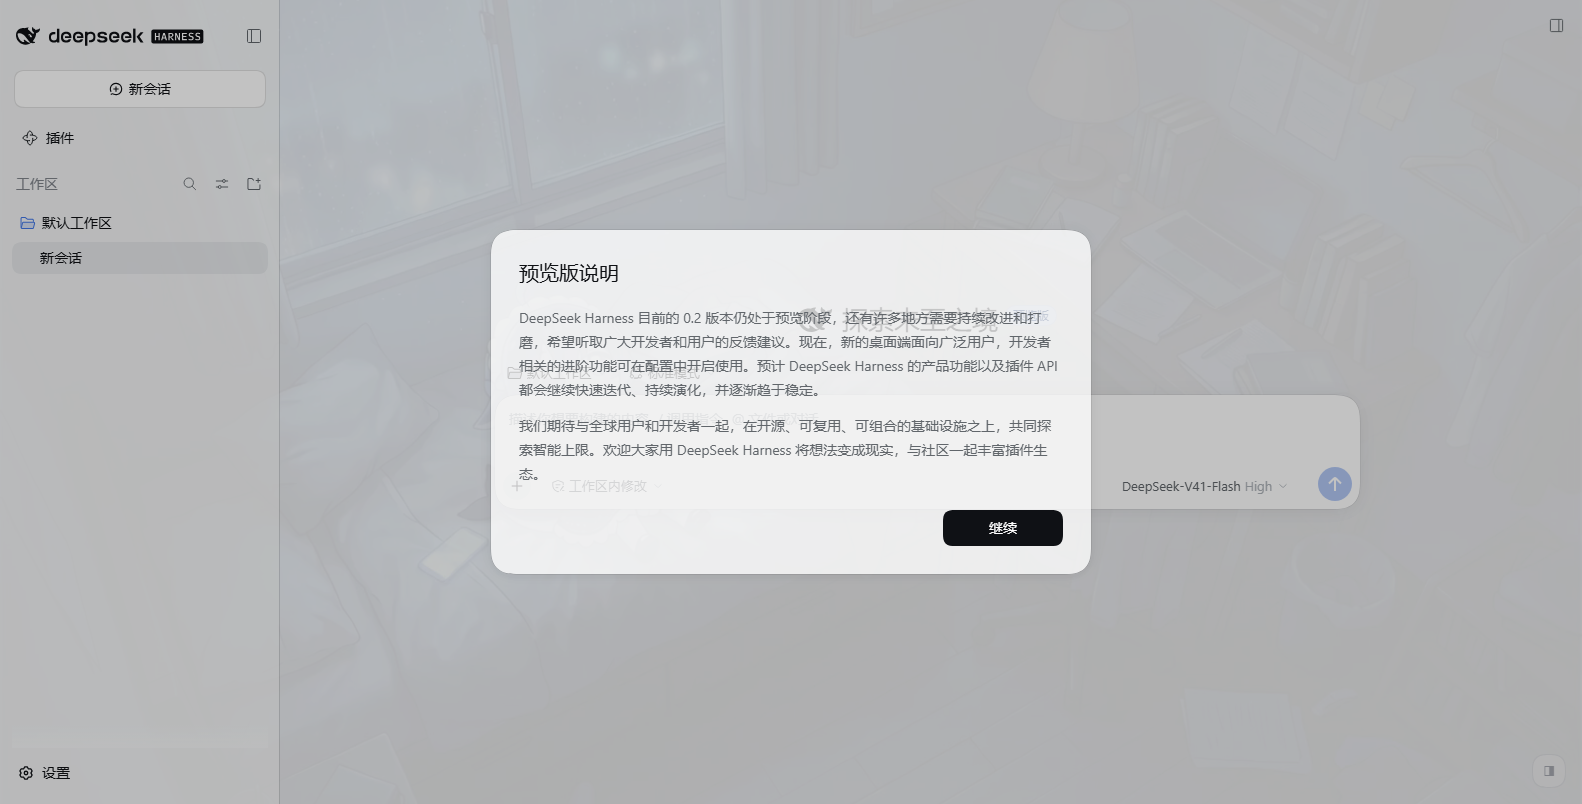
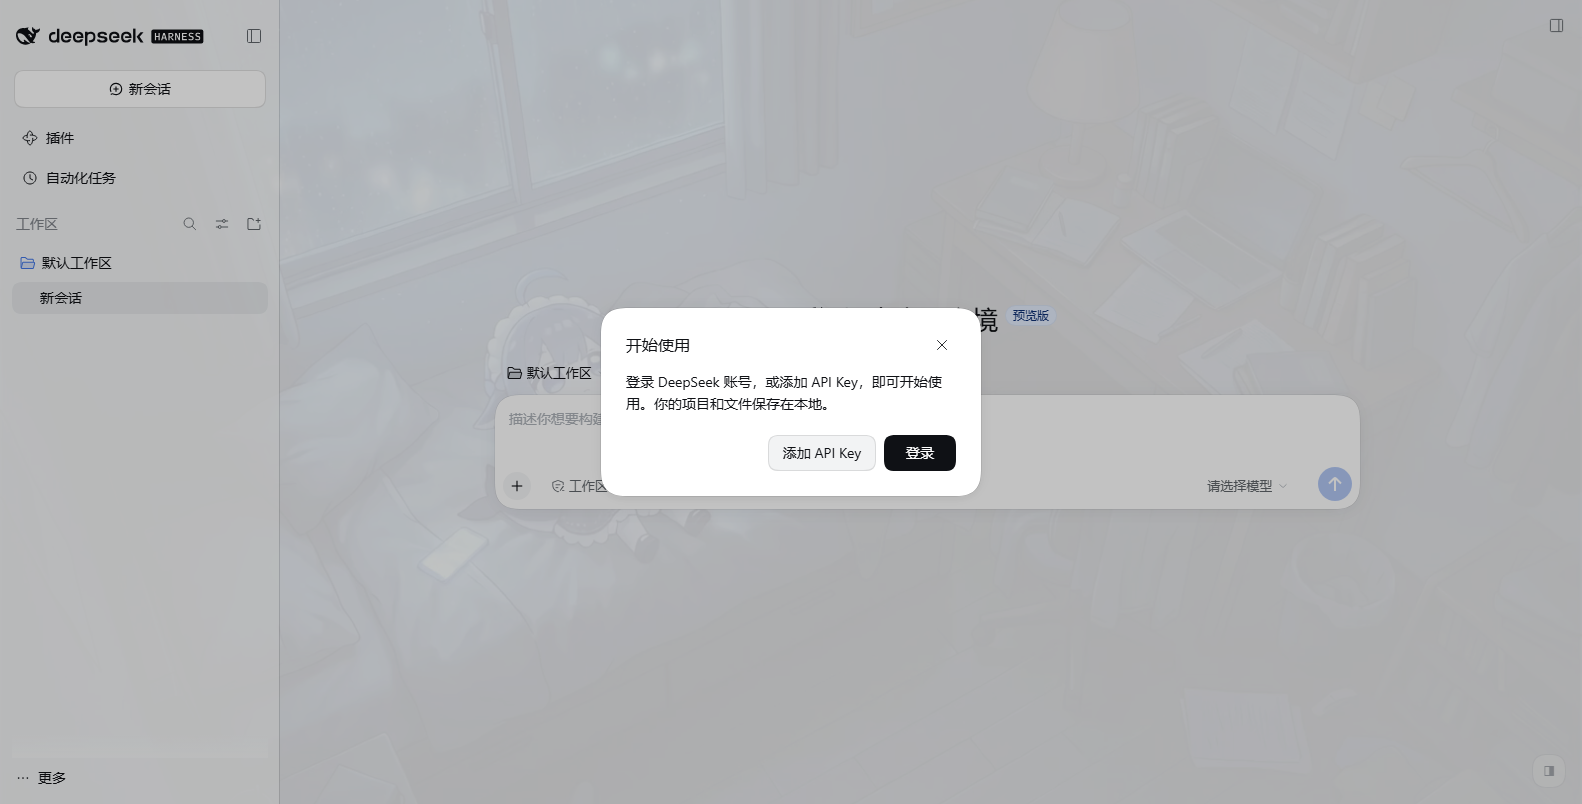
修复"打开设置/其他界面看不清"：弹层表面不再跟着透明度滑块走
根因：插件把 `--dsw-alias-bg-layer-1/2/3` 也按 `surface + 0.1/0.16/0.2` 派生了，
而内核里模态/面板就是用这几层画背景的：

    _dialog_o6lrb_33 { background: var(--dsw-alias-bg-layer-2) }   /* 模态 / 设置页 */
    _mask_o6lrb_18::after { background: var(--dsw-alias-bg-mask-1) }

暗主题 layer-2 只有 0.36 alpha，所以设置页变成一张玻璃纸：背后正在滚动的正文直接
透进对话框，两段文字叠在一起谁都读不了（用户报的正是这个）。

修法：划清"画布"和"抬起来的表面"的界线
- 半透明只保留给画布与侧栏：`--dsw-alias-bg-base` + `--dsw-specific-sidebar-fill`
- `layer-1/2/3` **完全不覆盖**，保持内核原生不透明色 —— 对话框/弹层/菜单/卡片/设置页都实心
- skin.js 里 `setLayer()` → `setSurface()`，不再派生 layer1/2/3

可读性代价与收益：卡片和弹层变成实心（读内容优先），视频仍在画布与侧栏后面清晰可见。

验证
- 真 Chromium 76/76（新增 B22：对话框 layer-2 在亮/暗两个主题下 alpha 都必须 = 1；
  B9/B16/B20 改成断言 layer token 保持不透明）
- 单元测试 81/81（新增：`--dsvs-layer1/2/3` 不该由插件派生）
- 实测截图存进 docs：e2e-5-settings-light.png / e2e-6-settings-dark.png
- 顺手修好仓库元数据：.git 之前只剩 objects/ 和 refs/（无 HEAD/config/index），
  就地重建后历史完好（HEAD = f5b69ee），备份在 %TEMP%\dsh-video-skin-git-backup-*
- 版本 0.1.1 → 0.1.2；滑块文案"面板不透明度" → "画布不透明度"（名副其实）

Changed region(s): [[0.3097, 0.2799, 0.8053, 0.7152], [0.0, 0.2177, 0.0619, 0.2799], [0.0, 0.3109, 0.0619, 0.3731]]

diff --git a/runtime/skin.css b/runtime/skin.css
@@ -270,28 +270,29 @@ body[data-ds-dark-theme] #dsvs-backdrop-veil {
   background: rgba(0, 0, 0, var(--dsvs-veil, 0.14));
 }
 
-/* 表面半透明化。
+/* 表面半透明化 —— **只动"画布"和"侧栏"，不动"浮起来的表面"**。
  *
- * **暗色和亮色的表面值刻意不同**：文字在暗主题是浅色、在亮主题是深色，而这条素材整体偏暗
- * （实测 YAVG≈0.25），所以同样薄的白色表面会让深色文字掉到 3:1 以下，而深色表面不会。
- * 两边都用一个值的结果就是"亮主题没法读"。实测数据见 README §3。
+ * 分成两类是有原因的（这是用户报障之后才分清的一条界线）：
+ *
+ *   ① 画布 / 侧栏（bg-base、sidebar-fill）：视频就在它们后面，半透明才能看见画面。
+ *   ② 抬起来的表面（bg-layer-1/2/3）：对话框、弹层、菜单、卡片、设置页。
+ *      **它们必须保持内核原生的不透明色**，否则背后正在滚动/闪动的正文会透进对话框里，
+ *      两段文字叠在一起就没法读了。设置页和「预览版说明」模态用的都是
+ *      `_dialog_*{ background: var(--dsw-alias-bg-layer-2) }`，同一个 token。
+ *
+ * 早先的实现把 ①②一起半透明化（layer2 = surface+0.16，暗主题只有 0.36），于是
+ * 一调低"面板不透明度"，设置页就变成一张玻璃纸。现在 ② 不再跟着滑块走。
  *
  * 每一层的不透明度都是 JS 先算好再写成独立变量，不在 `rgba()` 里写 `calc(var(...) + .14)`：
  * 自定义属性是 token 流，`calc()` 会被原样替换进颜色函数，能不能解析取决于实现；
  * 算好再写就没有这层不确定性，而且值本身可以直接被断言。 */
 html[data-dsvs="on"] body {
   --dsw-alias-bg-base: rgba(255, 255, 255, var(--dsvs-l-surface, 0.6)) !important;
-  --dsw-alias-bg-layer-1: rgba(255, 255, 255, var(--dsvs-l-layer1, 0.7)) !important;
-  --dsw-alias-bg-layer-2: rgba(255, 255, 255, var(--dsvs-l-layer2, 0.76)) !important;
-  --dsw-alias-bg-layer-3: rgba(255, 255, 255, var(--dsvs-l-layer3, 0.8)) !important;
   --dsw-specific-sidebar-fill: rgba(249, 250, 251, var(--dsvs-l-sidebar, 0.66)) !important;
 }
 
 html[data-dsvs="on"] body[data-ds-dark-theme] {
   --dsw-alias-bg-base: rgba(21, 21, 23, var(--dsvs-surface, 0.2)) !important;
-  --dsw-alias-bg-layer-1: rgba(35, 35, 36, var(--dsvs-layer1, 0.3)) !important;
-  --dsw-alias-bg-layer-2: rgba(41, 41, 41, var(--dsvs-layer2, 0.36)) !important;
-  --dsw-alias-bg-layer-3: rgba(47, 47, 49, var(--dsvs-layer3, 0.4)) !important;
   --dsw-specific-sidebar-fill: rgba(27, 27, 28, var(--dsvs-sidebar, 0.26)) !important;
 }
 

diff --git a/runtime/skin.js b/runtime/skin.js
@@ -842,16 +842,17 @@
     var veilLight = num(bg.veilLight, veil * 0.7, 0, 0.92)
     var root = doc.documentElement
     if (root && root.style && typeof root.style.setProperty === 'function') {
-      // 派生层在这里算好、写成独立变量：颜色函数里不出现 calc()，值本身也可被断言。
-      var setLayer = function (prefix, base) {
+      // 派生值在这里算好、写成独立变量：颜色函数里不出现 calc()，值本身也可被断言。
+      //
+      // **只有"画布"和"侧栏"跟着滑块走**。`layer1/2/3`（对话框、弹层、菜单、卡片、
+      // 设置页）**故意不派生** —— 它们必须保持内核原生的不透明色，否则背后的正文会
+      // 透进对话框里，两段文字叠在一起就没法读。详见 skin.css 里那段注释。
+      var setSurface = function (prefix, base) {
         root.style.setProperty(prefix + 'surface', String(base))
-        root.style.setProperty(prefix + 'layer1', String(Math.min(1, base + 0.1)))
-        root.style.setProperty(prefix + 'layer2', String(Math.min(1, base + 0.16)))
-        root.style.setProperty(prefix + 'layer3', String(Math.min(1, base + 0.2)))
         root.style.setProperty(prefix + 'sidebar', String(Math.min(1, base + 0.06)))
       }
-      setLayer('--dsvs-', surface)
-      setLayer('--dsvs-l-', surfaceLight)
+      setSurface('--dsvs-', surface)
+      setSurface('--dsvs-l-', surfaceLight)
       root.style.setProperty('--dsvs-veil', String(veil))
       root.style.setProperty('--dsvs-l-veil', String(veilLight))
     }
@@ -1307,7 +1308,9 @@
     }
 
     var rows = [
-      makeRow('surface', '面板不透明度', 100),
+      // 名字里别写"面板"：这个旋钮只影响**画布和侧栏**，弹层/对话框/设置页是内核原生
+      // 不透明色（否则背后的正文会透进对话框里）。见 skin.css 里那段注释。
+      makeRow('surface', '画布不透明度', 100),
       makeRow('veil', '视频蒙版', 92),
     ]
 
@@ -1354,7 +1357,7 @@
         return
       }
       var level = measured.p5 >= 7 ? 'great' : measured.p5 >= 4.5 ? 'ok' : 'low'
-      var word = level === 'great' ? '很充裕' : level === 'ok' ? '够用' : '偏低 · 建议调高面板不透明度'
+      var word = level === 'great' ? '很充裕' : level === 'ok' ? '够用' : '偏低 · 建议调高画布不透明度'
       badge.textContent = '文字对比度 ' + measured.p5.toFixed(1) + '（' + word + '）'
       badge.setAttribute('data-level', level)
     }

diff --git a/index.js b/index.js
@@ -45,7 +45,7 @@ export const CONFIG_ROUTE = `${ROUTE_PREFIX}/config.json`
 export const OVERRIDE_ROUTE = `${ROUTE_PREFIX}/override`
 
 /** 与 package.json 的 version 保持一致。 */
-export const VERSION = '0.1.1'
+export const VERSION = '0.1.2'
 
 /** 路由表：同时是配置解析的输入。 */
 const ROUTES = Object.freeze({

diff --git a/README.zh.md b/README.zh.md
@@ -37,11 +37,18 @@ github:Something11235/dsh-video-skin#main
 | | |
 | --- | --- |
 | ![开机动画](docs/e2e-1-boot.png) | ![亮色主题下的背景](docs/e2e-2-app.png) |
-| 开机动画：短片铺满视口（有声）+ 真实启动进度条 + 右下角常驻的「点击画面跳过」 | 亮色主题：视频铺满，面板半透明，正文对比度 5% 分位 **7.90** |
+| 开机动画：短片铺满视口（有声）+ 真实启动进度条 + 右下角常驻的「点击画面跳过」 | 亮色主题：视频铺满，画布半透明，正文对比度 5% 分位 **7.90** |
 | ![暗色主题下的背景](docs/e2e-3-dark.png) | ![透明度调节面板](docs/e2e-4-knobs.png) |
 | 暗色主题：视频清晰可见，正文对比度 5% 分位 **6.86**、中位 16.06（正文要求 4.5） | 右下角圆钮展开的调节面板：两个滑块、三个预设、实时对比度 7.9（很充裕） |
 
-三张都是 `scripts/verify-browser.mjs` 在**真 Chromium**里跑出来的（见 §6.1）。
+**设置页 / 弹层永远是实心的**（画布半透明、表面不透明，见 §3.2）：
+
+| ![设置页（亮）](docs/e2e-5-settings-light.png) | ![设置页（暗）](docs/e2e-6-settings-dark.png) |
+| --- | --- |
+| 亮色主题的设置页：不透明面板，背后正文不透进来 | 暗色主题的设置页（原来这一层只有 0.36 alpha，透得最厉害） |
+
+前四张是 `scripts/verify-browser.mjs` 在**真 Chromium**里跑出来的（见 §6.1），
+后两张是同一个实例里点开设置页截的。
 
 ---
 
@@ -184,8 +191,8 @@ powershell -ExecutionPolicy Bypass -File "D:\Projects\DSH工作台\插件制作\
 | `enabled` | `true` | 关掉就不建背景层、也不动任何主题变量 |
 | `file` | `assets/background.mp4` | 背景片子在包内的相对路径 |
 | **`veil`** | `0.14` | **暗主题**视频蒙版不透明度（压黑）。越大越易读、画面越弱 |
-| **`surface`** | `0.2` | **暗主题**界面表面不透明度。`0` = 表面全透明（画面最强），`1` = 原生不透明（看不见视频） |
-| **`surfaceLight`** | `0.6` | **亮主题**表面不透明度。默认 = `surface + 0.4`。**亮主题必须更实**，原因见下 |
+| **`surface`** | `0.2` | **暗主题画布/侧栏**的不透明度。`0` = 全透明（画面最强），`1` = 原生不透明（看不见视频）。**弹层与设置页不受它影响**（见 §3.2） |
+| **`surfaceLight`** | `0.6` | **亮主题画布/侧栏**的不透明度。默认 = `surface + 0.4`。**亮主题必须更实**，原因见下 |
 | `veilLight` | `0.1` | 亮主题蒙版不透明度。默认 = `veil × 0.7` |
 | **`controls`** | `true` | 是否显示右下角的透明度调节控件（圆钮 + 滑块面板）。关掉就只能改 JSON |
 | `delayMs` | `1200` | 界面就绪后多久开始加载背景视频（把开机阶段的带宽留给界面） |
@@ -217,7 +224,7 @@ powershell -ExecutionPolicy Bypass -File "D:\Projects\DSH工作台\插件制作\
 
 | 面板里的东西 | 说明 |
 | --- | --- |
-| **面板不透明度** 滑块 | 调 `surface`；亮主题跟着按 `+0.4` 派生，滑块下方把**两个主题的实际值**都写出来（`暗色 20% · 亮色 60%`） |
+| **画布不透明度** 滑块 | 调 `surface`；亮主题跟着按 `+0.4` 派生，滑块下方把**两个主题的实际值**都写出来（`暗色 20% · 亮色 60%`）。**只影响画布和侧栏** —— 对话框/弹层/设置页永远是不透明的，见 §3.2 |
 | **视频蒙版** 滑块 | 调 `veil`；亮主题按 `×0.7` 派生 |
 | **三个预设** | 「接近原生」`0.85/0.5`、「均衡」`0.2/0.14`（默认）、「视频最清」`0/0` |
 | **文字对比度 xx（结论）** | **实时量出来的**：采样当前视频帧，按「视频→蒙版→表面」合成后算 WCAG 对比度。绿=很充裕（≥7）、蓝=够用（≥4.5）、琥珀=偏低 |
@@ -238,6 +245,38 @@ powershell -ExecutionPolicy Bypass -File "D:\Projects\DSH工作台\插件制作\
 
 **它不写死坐标也不抢焦点**：圆钮挂在 `document.body` 上、和背景层同一层，不注入 DSH 的设置页
 （那页是 React 管的，往里塞节点迟早出问题）。
+
+### 3.2 为什么只有"画布"半透明，弹层永远不透明
+
+这是踩过坑之后划的一条界线。表面 token 分两类：
+
+| 类 | token | 插件怎么处理 | 为什么 |
+| --- | --- | --- | --- |
+| **画布 / 侧栏** | `--dsw-alias-bg-base`、`--dsw-specific-sidebar-fill` | 半透明，由滑块控制 | 视频就在它们后面，不半透明就看不见画面 |
+| **抬起来的表面** | `--dsw-alias-bg-layer-1/2/3` | **完全不覆盖**（保持内核原生不透明色） | 对话框、弹层、菜单、卡片、**设置页**用的都是它们 |
+
+关键证据：内核里模态和面板的定义就是
+
+```css
+._dialog_o6lrb_33 { background: var(--dsw-alias-bg-layer-2); }   /* 模态 / 设置页 */
+._mask_o6lrb_18::after { background: var(--dsw-alias-bg-mask-1); } /* 遮罩 */
+```
+
+早先的实现把 `layer1/2/3` 也按 `surface + 0.1/0.16/0.2` 派生（暗主题只有 0.3/0.36/0.4），
+结果一调低"不透明度"，**设置页就变成一张玻璃纸**：背后正在滚动的正文直接透进对话框里，
+两段文字叠在一起谁都读不了。现在弹层这一层不再跟着滑块走，代价是卡片/对话框看起来是实心的
+——这正是要的：**看视频是画布的事，读内容是表面的事**。
+
+| 修复前（设置页透出聊天正文） | 修复后 |
+| --- | --- |
+| — | ![设置页（亮）](docs/e2e-5-settings-light.png) |
+
+暗色主题同样（原来 `layer-2` 只有 0.36，比亮色更糟）：
+
+![设置页（暗）](docs/e2e-6-settings-dark.png)
+
+这条边界有回归断言守着：真浏览器验收里的 **B20/B22**（`layer-1`/对话框 `layer-2` 在两个主题下
+alpha 都必须等于 1），单元测试里则是"`--dsvs-layer1/2/3` 不该由插件派生"。
 
 ## 4. 它是怎么接进去的（以及几个不许改的约束）
 
@@ -269,17 +308,18 @@ Host 半边 (index.js)
 
 - 背景层是 `position: fixed; z-index: -1` 的 body 第一个孩子。`-1` 让它落在所有在流内容之下，
   所以**不需要给应用任何东西加 z-index**，也不会挡住任何交互（含挂在 body 上的 portal）。
-- 表面半透明化改的是 `--dsw-alias-bg-base` / `--dsw-alias-bg-layer-1..3` / `--dsw-specific-sidebar-fill`
-  这几个**别名 token**。内核主题把整套色板定义在 `body` / `body[data-ds-dark-theme]` 上，全应用的可视表面
-  都引用别名 —— 覆盖别名等于一次改到所有面板，不需要知道任何组件类名。自定义属性上的 `!important`
-  会压过主题里的普通声明（与选择器特异性无关）。
+- 表面半透明化**只改两个**别名 token：`--dsw-alias-bg-base`（画布）与
+  `--dsw-specific-sidebar-fill`（侧栏）。内核主题把整套色板定义在 `body` / `body[data-ds-dark-theme]` 上，
+  全应用的可视表面都引用别名 —— 覆盖别名等于一次改到所有面板，不需要知道任何组件类名。
+  自定义属性上的 `!important` 会压过主题里的普通声明（与选择器特异性无关）。
 - 表面不透明度是 **JS 算好再写成独立变量**（`--dsvs-*` 给暗主题、`--dsvs-l-*` 给亮主题），
   不在 `rgba()` 里写 `calc(var(...) + .1)`：自定义属性是 token 流，`calc()` 会被原样替换进颜色函数，
   能不能解析取决于实现；算好再写既没有这层不确定性，值本身也**可以直接被断言**。
 - 亮/暗两套值不是化简失误：文字在两边颜色相反，而素材整体偏暗（实测 `YAVG ≈ 0.25`），
   同样薄的白色表面会让深色文字掉到 3:1 以下。实测依据见 §3。
-- 刻意**不动** `--dsw-alias-bg-overlay`、`--dsw-menu-surface-fill`、文档预览与遮罩类 token：
-  弹层和菜单要保持不透明，否则弹窗里的字会压在视频上。
+- 刻意**不动** `--dsw-alias-bg-layer-1/2/3`、`--dsw-alias-bg-overlay`、`--dsw-menu-surface-fill`、
+  文档预览与遮罩类 token：弹层、菜单、卡片、**设置页**要保持内核原生不透明色，
+  否则弹窗里的字会压在背后正在滚动的正文上（见 §3.2）。
 
 ## 5. 出问题了怎么查
 

diff --git a/README.md b/README.md
@@ -34,8 +34,12 @@ then fading into the app, and **skippable with a click**.
   > Earlier builds cross-dissolved over the clip's tail and used the *actual remaining time* as the fade
   > duration — when the app became ready late that left only 100–200 ms, which read as a **hard cut**.
   > Default is now `exitMode: 'end'`; `exitMode: 'tail'` restores the crossfade (still with a fixed fade).
-- Backdrop: silent, looping, `object-fit: cover`, with the app's surface tokens made translucent —
-  **the picture is clearly visible** and the text stays readable.
+- Backdrop: silent, looping, `object-fit: cover`, with the **canvas and sidebar** surface tokens made
+  translucent — **the picture is clearly visible** and the text stays readable.
+  **Raised surfaces stay opaque**: the kernel paints dialogs, popovers, menus, cards and the settings
+  view with `--dsw-alias-bg-layer-1/2/3` (`_dialog_* { background: var(--dsw-alias-bg-layer-2) }`), so
+  those tokens are deliberately **left untouched** — otherwise the scrolling text behind a dialog shows
+  through it and neither layer is readable.
 - A **transparency slider in the UI** (bottom-right pill): two sliders, three presets, and a live
   body-text contrast readout; changes apply on refresh with no DSH restart.
 - **Zero dependencies.** The host half imports only `node:` builtins; the browser half is one inline
@@ -50,8 +54,13 @@ then fading into the app, and **skippable with a click**.
 | --- | --- |
 | ![boot animation](docs/e2e-1-boot.png) | ![light theme backdrop](docs/e2e-2-app.png) |
 | Boot animation: clip fills the window (with sound), real boot progress bar, permanent "click to skip" pill | Light theme: backdrop fills the window, body-text contrast p5 = **7.90** |
-| ![dark theme backdrop](docs/e2e-3-dark.png) | |
-| Dark theme: video clearly visible, body-text contrast p5 = **6.86**, median 16.06 (AA needs 4.5) | |
+| ![dark theme backdrop](docs/e2e-3-dark.png) | ![settings, light](docs/e2e-5-settings-light.png) |
+| Dark theme: video clearly visible, body-text contrast p5 = **6.86**, median 16.06 (AA needs 4.5) | Settings view (light): opaque panel — the chat behind does not bleed in |
+
+![settings, dark](docs/e2e-6-settings-dark.png)
+
+Settings view in dark theme. That layer used to be `layer-2` at alpha 0.36 (the worst case) and let the
+chat text show straight through the dialog; it now keeps the kernel's native opaque colour.
 
 ## Sound
 
